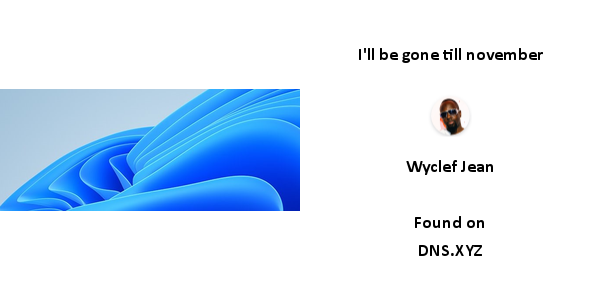
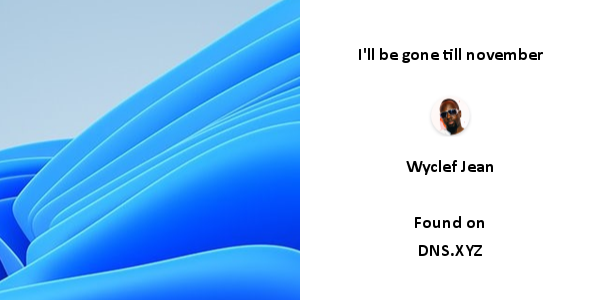
crop instead of resize

diff --git a/main.js b/main.js
@@ -1,6 +1,7 @@
-nftPath = './img/nft.png'
-// nftPath = './img/nftBigHeight.png'
+// nftPath = './img/nft.png'
+nftPath = './img/nftBigHeight.png'
 // nftPath = './img/nftBigWidth.png'
+// nftPath = './img/nftBigWidth2.png'
 avatarPath = './img/avatar.png'
 backgroundPath = './img/background.png'
 twitterCardOutput = './img/card.png'
@@ -31,7 +32,7 @@ const resizeNft = async (nft) => {
     dimensions = await sharpWrapper.getDimensions(nft)
     
     // depending on the ratio.. h > w scale for width - w < h scale for height
-    scaleFor = dimensions.width < dimensions.height ? { height: cardHeight } : { width: cardWidth / 2 }
+    scaleFor = dimensions.width > dimensions.height ? { height: cardHeight } : { width: cardWidth / 2 }
 
     resizedImg = await sharpWrapper.resize(nft, scaleFor)
 
@@ -79,7 +80,9 @@ const mergeImages = async (resizedNft, avatar, profileInfoImg) => {
     ]
     return await mergeImages(imagesForCard, {
         Canvas: Canvas,
-        Image: Image
+        Image: Image,
+        width: cardWidth,
+        height: cardHeight
     })
 }
 
@@ -101,9 +104,10 @@ const main = async (info) => {
     // output the twitter card, needs to be stored in a structure / under an id the main page can statically link to
     // e.g. the filename will be the id of the user and the id is passed via the cardInfo object 
     await base64ToImg(card, twitterCardOutput)
+    // await base64ToImg(prependBase64Header(resizedNft), twitterCardOutput)
 }
 
 module.exports.createCard = main;
 
 // uncomment line below to debug without the server
-// main(info);
+main(info);
